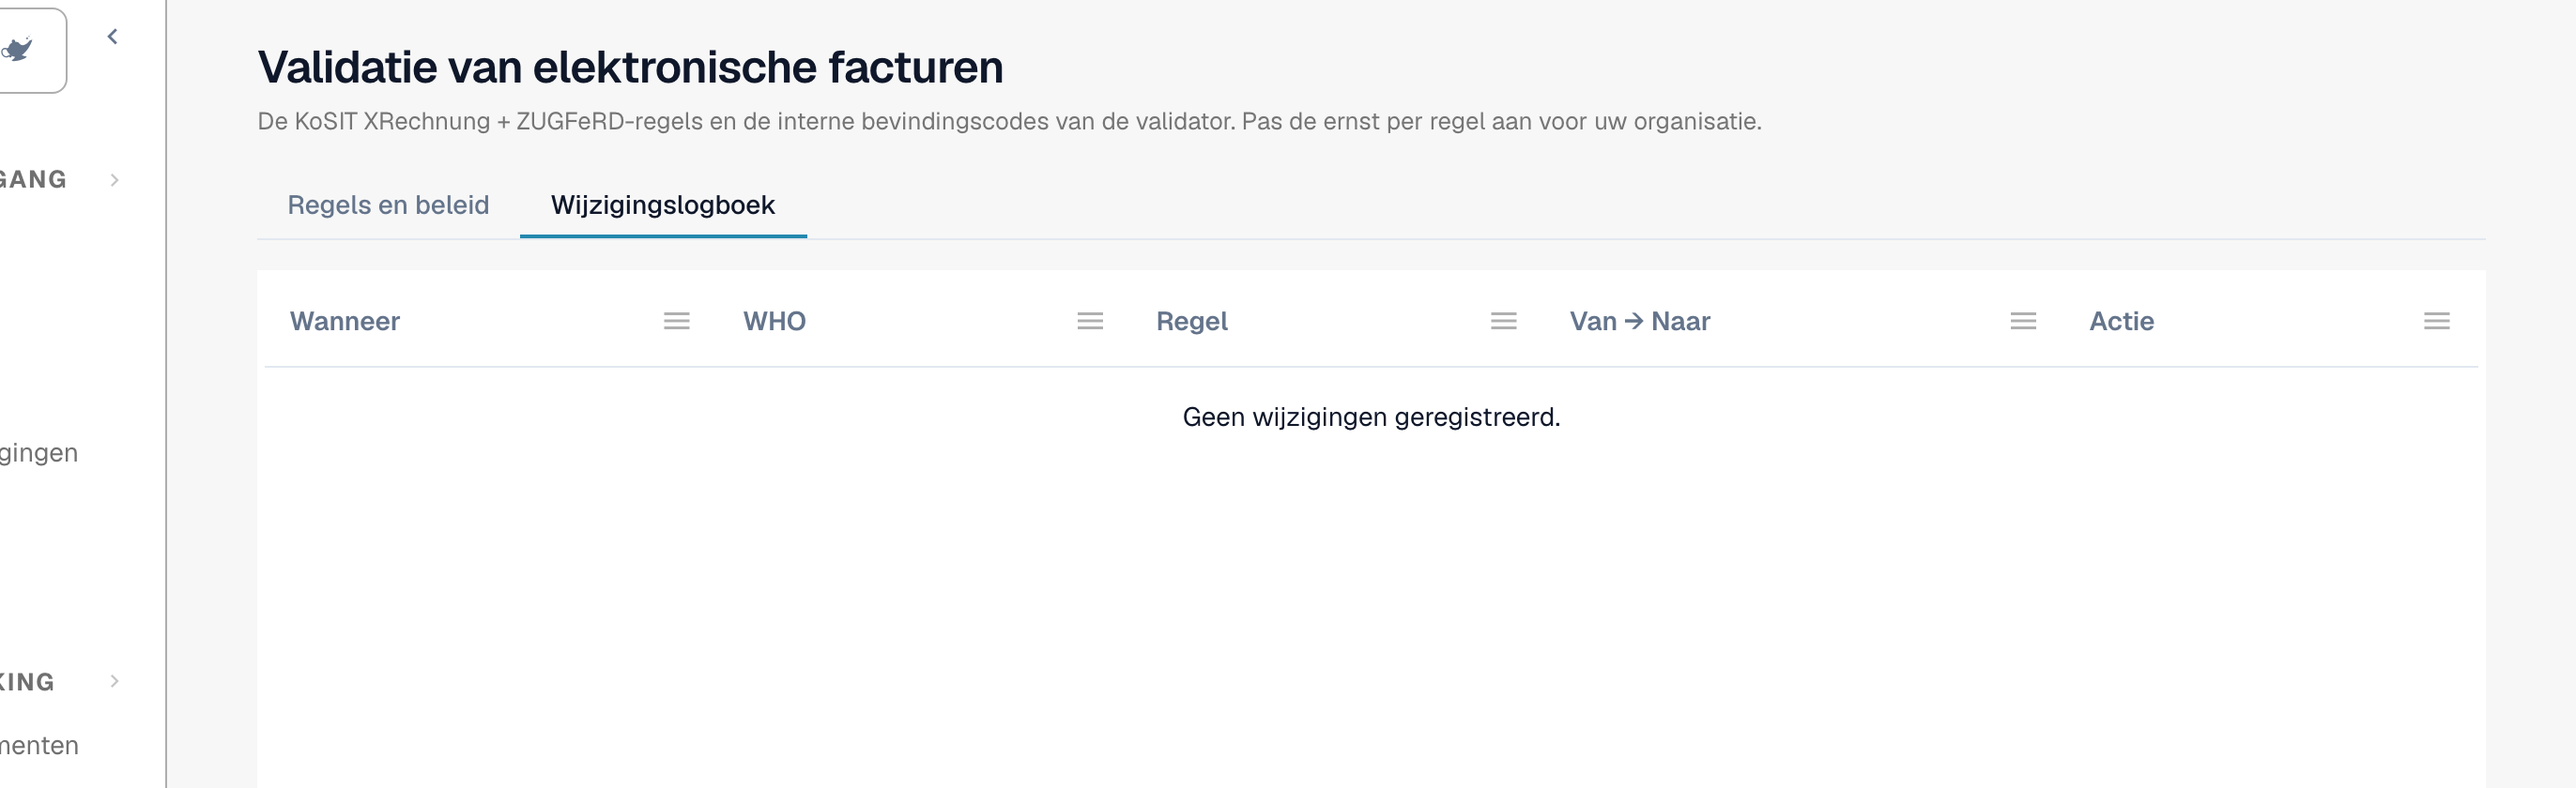
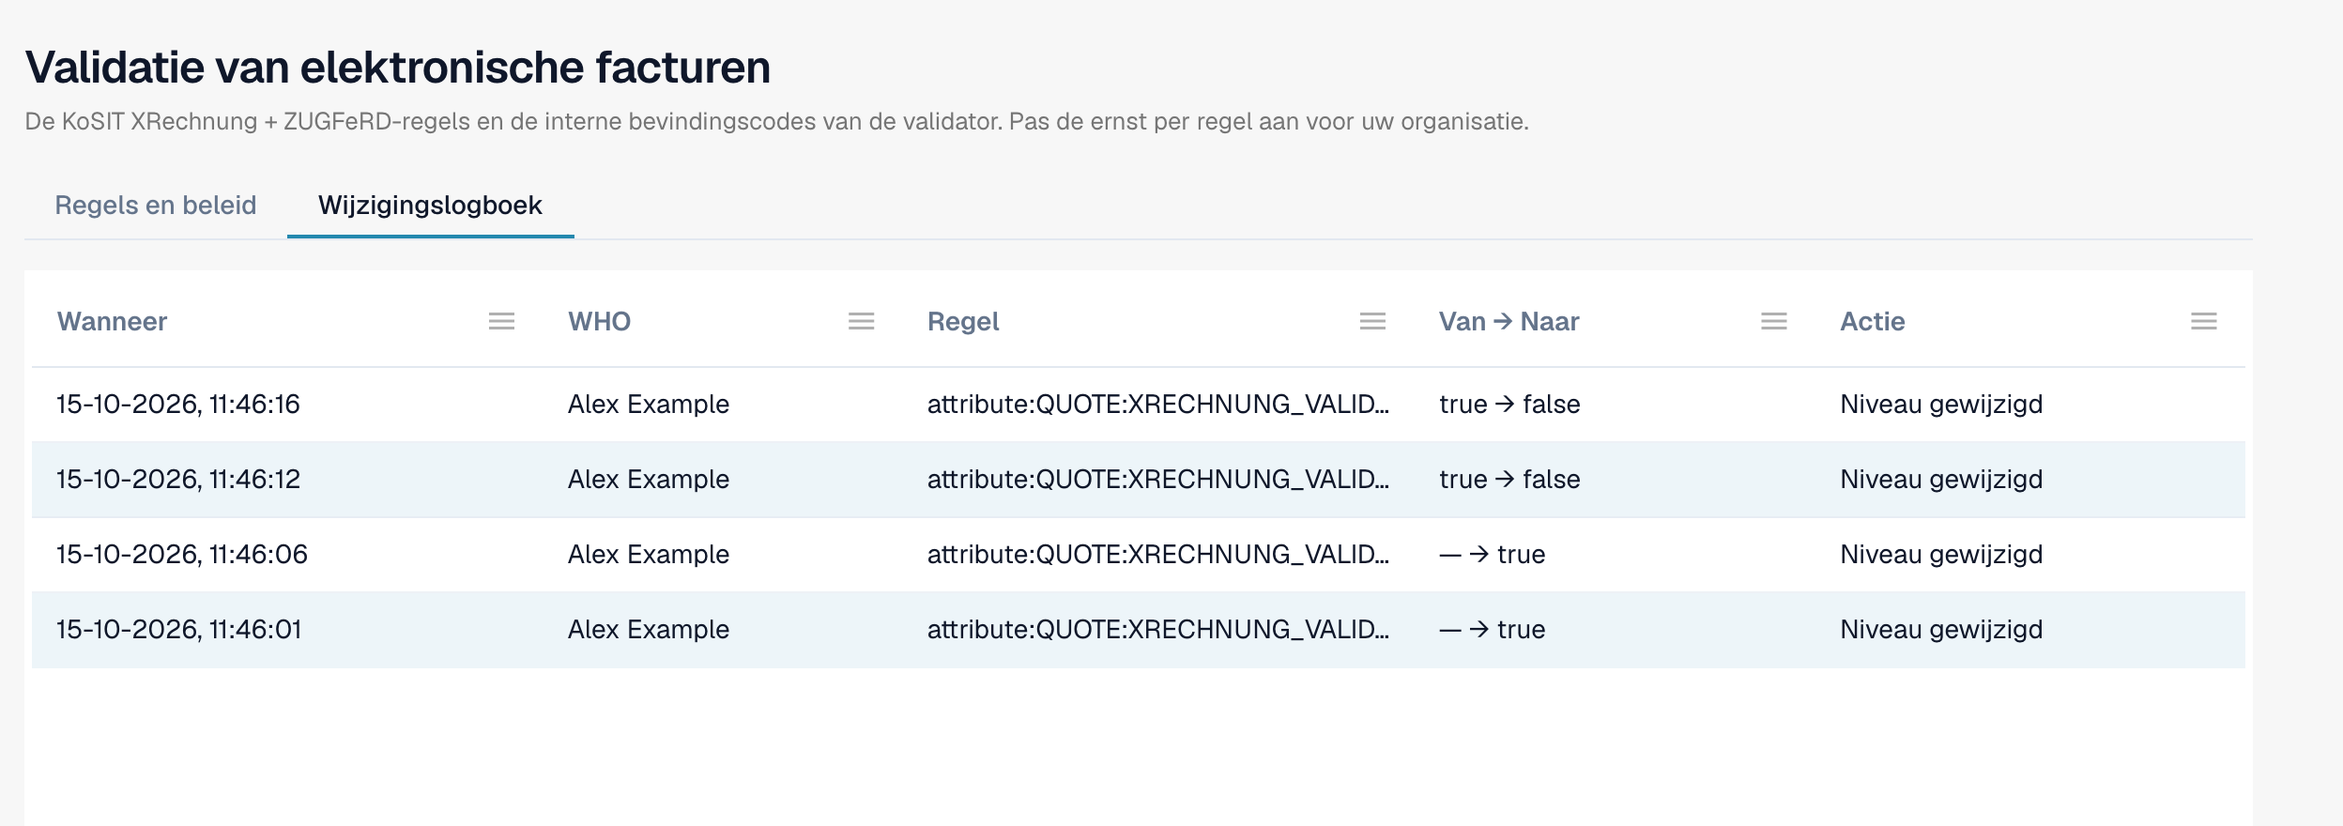
docs(nl): error screen page and change log screenshot (CORE-6410)
Claude-Session: https://claude.ai/code/session_01KNaeuhcTr3YU6A9NeVaSGs

diff --git a/readme/administration-and-setup/settings/document-processing/e-documents/validation-error-screen.md b/readme/administration-and-setup/settings/document-processing/e-documents/validation-error-screen.md
@@ -1,0 +1,52 @@
+# Het foutscherm voor een afgewezen e-factuur
+
+Wanneer u een onjuiste e-factuur uploadt, raakt DocBits die niet kwijt. Het document krijgt de status **Fout** en het foutscherm vertelt u wat er mis is, waar en wat u daarna kunt doen. Deze pagina toont twee voorbeelden: een XML-bestand dat niet goed gevormd is en een factuur die een bedrijfsregel schendt.
+
+> Een factuur krijgt alleen de status **Fout** wanneer validatie **aan** staat en **blokkeert** voor het documenttype. Zie [Validatie voor elk documenttype](validation-per-document-type.md).
+
+## Voorbeeld 1: het XML-bestand is beschadigd
+
+Een leverancier stuurt een XML-bestand waarin een sluittag niet overeenkomt met de openingstag. Het bestand kan niet worden gelezen, dus DocBits stopt bij de eerste controle, **L1 · Goed gevormdheid**.
+
+<figure><img src="../../../../.gitbook/assets/einvoice-error-xml-malformed-nl.png" alt="Het foutscherm voor een XML-bestand dat niet goed gevormd is: links de XML met de foutieve regel gemarkeerd, rechts de uitleg"><figcaption><p>Het foutscherm voor een beschadigd XML-bestand. De foutieve regel is gemarkeerd in de XML. Voorbeeldbestand met fictieve gegevens.</p></figcaption></figure>
+
+Het scherm heeft twee kanten:
+
+* **Links: het XML-bestand.** DocBits toont het bestand met regelnummers. De regel met het probleem is rood gemarkeerd. Met de knoppen boven het bestand kopieert u de XML of opent u die in een nieuw tabblad.
+* **Rechts: de uitleg.** De kaart **Afgewezen door** noemt de controle die het bestand heeft gestopt (hier **L1 · Goed gevormdheid**) en de regelcode (hier `XML-PARSE`). Daaronder ziet u een titel (*XML is not well-formed*), een korte uitleg en het blok **Volgende stap**.
+
+Selecteer **Bekijk validatiegegevens** om het volledige [validatierapport](validation-report.md) te openen.
+
+<figure><img src="../../../../.gitbook/assets/einvoice-report-xml-malformed-nl.png" alt="Het validatierapport van het beschadigde XML-bestand met de bevinding XML-PARSE"><figcaption><p>Het rapport van het beschadigde bestand: één fout op niveau 1 Syntaxis, met het technische bericht en de positie</p></figcaption></figure>
+
+Het rapport noemt de exacte positie (hier regel 5, kolom 4081) en geeft het technische bericht van de XML-parser. Selecteer **Weergeven in XML** om naar die regel te springen. De hint **Hoe los ik dit op?** zegt dat u de afzender om een gecorrigeerd bestand moet vragen.
+
+## Voorbeeld 2: de factuur schendt een bedrijfsregel
+
+De XML is in orde, maar een verplicht veld ontbreekt. De verkoper kan bijvoorbeeld niet worden geïdentificeerd omdat er geen verkopersidentificatie, registratie-identificatie of btw-identificatie aanwezig is (regel `BR-CO-26`).
+
+<figure><img src="../../../../.gitbook/assets/einvoice-error-view-nl.png" alt="Het foutscherm voor een factuur die een bedrijfsregel schendt"><figcaption><p>Het foutscherm voor een fout in een bedrijfsregel: de laag <strong>L3 · Bedrijfsregels</strong>, de regelcode en een volgende stap</p></figcaption></figure>
+
+Hier noemt de kaart de laag **L3 · Bedrijfsregels** en de code `BR-CO-26`. Het rapport toont alle bevindingen van de factuur, zie [Validatierapport](validation-report.md).
+
+## De knoppen onder de kaart
+
+| Knop | Wat hij doet |
+| --- | --- |
+| **Verwerking opnieuw starte** | Voert de verwerking van het document opnieuw uit, bijvoorbeeld nadat u een instelling hebt gewijzigd. De controle gebruikt de huidige instellingen. |
+| **Bekijk DocFlow** | Toont de workflow van het document. |
+| **Kopieergegevens** | Kopieert de foutgegevens, bijvoorbeeld voor een bericht aan uw beheerder. |
+| **Ticket aanmaken** | Opent een supportticket met de foutgegevens. |
+
+Selecteer **Toon technische details** op de kaart voor de ruwe technische informatie.
+
+## Wat u daarna doet
+
+* **Fouten:** vraag de afzender om een gecorrigeerde factuur, of [wijs het document af](validation-next-step-and-reject.md). Een gecorrigeerde factuur is een nieuw document.
+* **Alleen waarschuwingen:** het document wordt niet geblokkeerd. U kunt doorgaan.
+
+## Gerelateerde pagina's
+
+* [Validatierapport](validation-report.md): alle bevindingen, niveau voor niveau.
+* [Volgende stap en een document afwijzen](validation-next-step-and-reject.md)
+* [Validatie voor elk documenttype](validation-per-document-type.md): schakel validatie in en stel blokkeren in.

diff --git a/readme/administration-and-setup/settings/document-processing/e-documents/validation-rules.md b/readme/administration-and-setup/settings/document-processing/e-documents/validation-rules.md
@@ -14,5 +14,6 @@ De pagina **Validatie van elektronische facturen** (**Instellingen → E-documen
 | [Ernst van regels](validation-rule-severities.md) | De regeltabel: wijzig de ernst van elke regel voor uw organisatie. | Organisatiebeheerders |
 | [Validatie voor elk documenttype](validation-per-document-type.md) | Schakel validatie in (**Ingeschakeld**) en bepaal of een mislukte controle het document stopt (**Blokkeren**). Elke wijziging moet worden bevestigd. | Organisatiebeheerders |
 | [Wijzigingslogboek](validation-change-log.md) | Elke wijziging van de instellingen: wanneer, wie, welke regel, van → naar. | Organisatiebeheerders |
+| [Het foutscherm voor een afgewezen e-factuur](validation-error-screen.md) | Wat u ziet wanneer u een onjuiste XML uploadt: de uitleg, de foutieve regel en de volgende stap. | Iedereen die facturen verwerkt |
 | [Validatierapport](validation-report.md) | Wat een gebruiker ziet wanneer een factuur faalt: de bevindingen in begrijpelijke taal. Het opent vanuit het document, niet vanuit deze pagina. | Iedereen die facturen verwerkt |
 | [Volgende stap en een document afwijzen](validation-next-step-and-reject.md) | Wat u doet nadat u het rapport hebt gelezen, downloads van het rapport en **Document afwijzen**. | Iedereen die facturen verwerkt |

diff --git a/readme/administration-and-setup/settings/document-processing/e-documents/validation-report.md b/readme/administration-and-setup/settings/document-processing/e-documents/validation-report.md
@@ -1,6 +1,6 @@
 # Validatierapport
 
-Wanneer DocBits een e-factuur afwijst, kunt u precies lezen waarom. Het **validatierapport** toont elke bevinding in begrijpelijke taal, vertelt u wat u moet herstellen en toont de volgende stap. U opent het vanuit het document, niet vanuit de instellingen.
+Wanneer DocBits een e-factuur afwijst, kunt u precies lezen waarom. Het **validatierapport** toont elke bevinding in begrijpelijke taal, vertelt u wat u moet herstellen en toont de volgende stap. U opent het vanuit het document, niet vanuit de instellingen. Het scherm waar u het vindt, wordt beschreven in [Het foutscherm voor een afgewezen e-factuur](validation-error-screen.md).
 
 Deze pagina is bedoeld voor mensen die facturen verwerken. Beheerders stellen de regels in op de pagina [Validatie van elektronische facturen](validation-rules.md) en kiezen per documenttype of een mislukte controle de factuur blokkeert, zie [Validatie voor elk documenttype](validation-per-document-type.md).
 

diff --git a/readme/SUMMARY.md b/readme/SUMMARY.md
@@ -441,6 +441,7 @@
         * [Ernst van regels](administration-and-setup/settings/document-processing/e-documents/validation-rule-severities.md)
         * [Validatie voor elk documenttype](administration-and-setup/settings/document-processing/e-documents/validation-per-document-type.md)
         * [Wijzigingslogboek](administration-and-setup/settings/document-processing/e-documents/validation-change-log.md)
+        * [Het foutscherm voor een afgewezen e-factuur](administration-and-setup/settings/document-processing/e-documents/validation-error-screen.md)
         * [Validatierapport](administration-and-setup/settings/document-processing/e-documents/validation-report.md)
         * [Volgende stap en een document afwijzen](administration-and-setup/settings/document-processing/e-documents/validation-next-step-and-reject.md)
       * [Notificatierouting](administration-and-setup/settings/document-processing/e-documents/notification-routing.md)

diff --git a/readme/administration-and-setup/settings/document-processing/e-documents/validation-change-log.md b/readme/administration-and-setup/settings/document-processing/e-documents/validation-change-log.md
@@ -4,7 +4,7 @@ Het **Wijzigingslogboek** legt elke wijziging van de validatie-instellingen vast
 
 Open het tabblad **Wijzigingslogboek** naast **Regels en beleid**.
 
-<figure><img src="../../../../.gitbook/assets/einvoice-validation-change-log-nl.png" alt="Het tabblad Wijzigingslogboek met de kolommen Wanneer, WHO, Regel, Van naar Naar en Actie"><figcaption><p>Het wijzigingslogboek van een organisatie zonder wijzigingen</p></figcaption></figure>
+<figure><img src="../../../../.gitbook/assets/einvoice-validation-change-log-nl.png" alt="Het tabblad Wijzigingslogboek met de kolommen Wanneer, WHO, Regel, Van naar Naar en Actie"><figcaption><p>Het wijzigingslogboek met vier voorbeeldvermeldingen. De gebruikersnaam is vervangen door een voorbeeldnaam.</p></figcaption></figure>
 
 | Kolom | Wat ze toont |
 | --- | --- |
